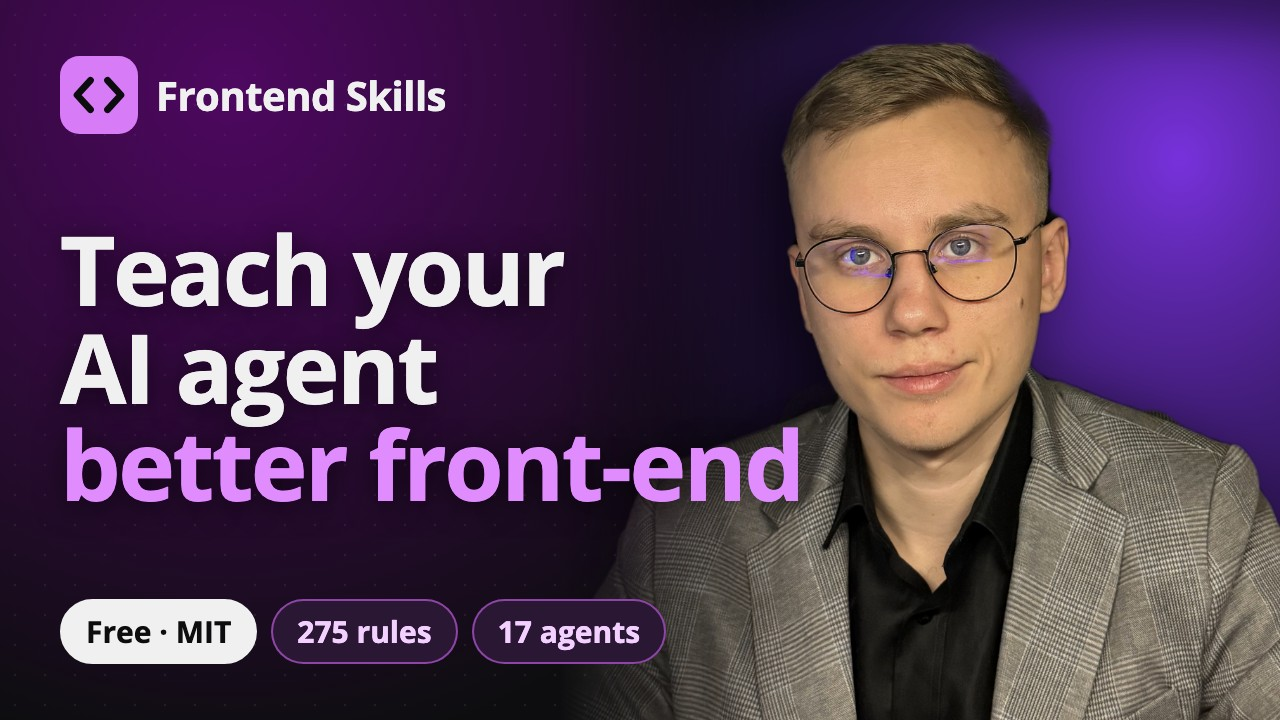
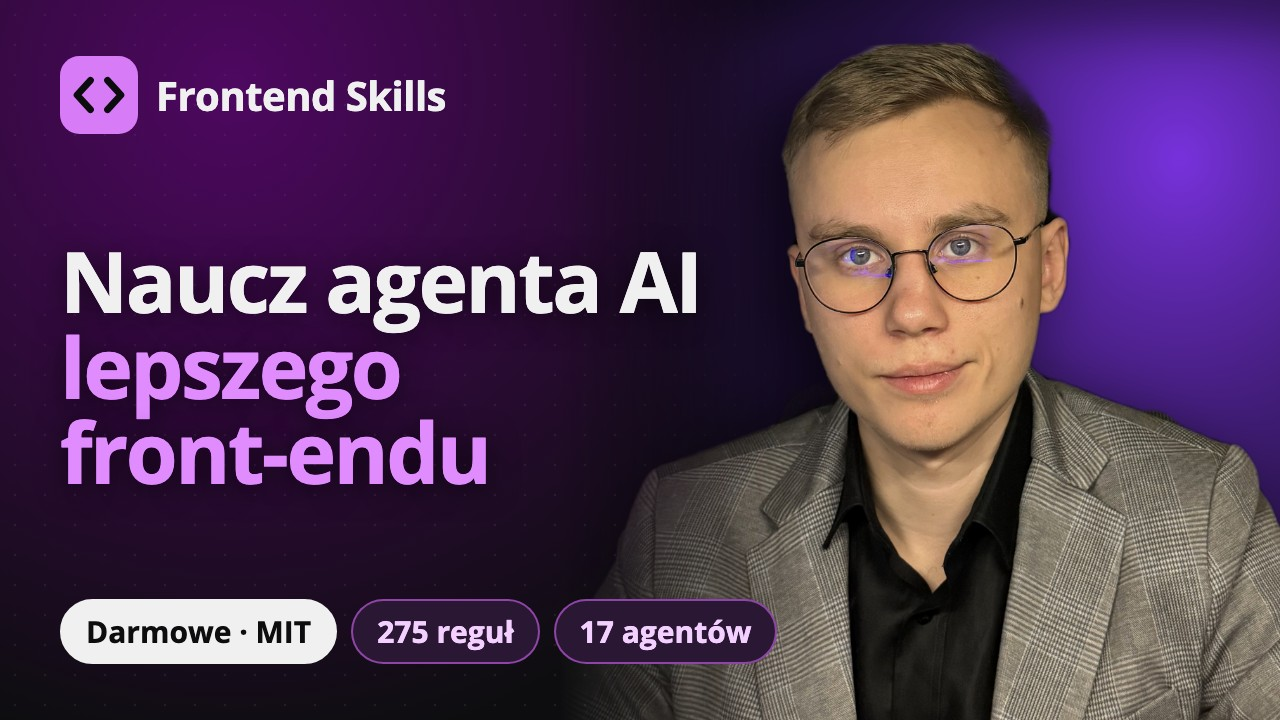
docs(media): Polish thumbnails as the main ones, English kept as -en [skip ci]

Changed region(s): [[0.0312, 0.3056, 0.625, 0.7028], [0.0625, 0.825, 0.625, 0.9472]]

diff --git a/media/launch/thumbnail.html b/media/launch/thumbnail.html
@@ -1,6 +1,6 @@
 <!doctype html>
 <!--
-  The thumbnail of the Frontend Skills video and post. build.mjs opens it with ?w=&h=&photo=&rules=&skills=&agents=
+  The thumbnail of the Frontend Skills video and post. build.mjs opens it with ?w=&h=&lang=en|pl&photo=&rules=&agents=
   and screenshots it: the author's portrait on the right, the mark, a short headline and the counts on the left.
 -->
 <html lang="en">
@@ -11,7 +11,14 @@
       @font-face {
         font-family: "Open Sans";
         font-weight: 300 700;
+        src: url(../../site/assets/fonts/opensans-latin-ext.woff2) format("woff2");
+        unicode-range: U+0100-02BA, U+02BD-02C5, U+02C7-02CC, U+02CE-02D7, U+02DD-02FF, U+1E00-1E9F, U+20A0-20C4, U+2C60-2C7F, U+A720-A7FF;
+      }
+      @font-face {
+        font-family: "Open Sans";
+        font-weight: 300 700;
         src: url(../../site/assets/fonts/opensans-latin.woff2) format("woff2");
+        unicode-range: U+0000-00FF, U+0131, U+0152-0153, U+02BB-02BC, U+02C6, U+02DA, U+02DC, U+2000-206F, U+20AC, U+2122, U+2212;
       }
       * {
         box-sizing: border-box;
@@ -118,9 +125,9 @@
           <svg viewBox="0 0 32 32" aria-hidden="true"><rect width="32" height="32" rx="8"/><path d="M12.5 10 7 16l5.5 6M19.5 10 25 16l-5.5 6"/></svg>
           Frontend Skills
         </div>
-        <h1>Teach your<br>AI agent <span>better front-end</span></h1>
+        <h1></h1>
         <div class="chips">
-          <span class="chip free">Free · MIT</span>
+          <span class="chip free" id="free"></span>
           <span class="chip" id="rules"></span>
           <span class="chip" id="agents"></span>
         </div>
@@ -132,8 +139,18 @@
       t.style.setProperty('--w', q.get('w'))
       t.style.setProperty('--h', q.get('h'))
       document.querySelector('.photo').style.backgroundImage = `url("${q.get('photo')}")`
-      document.getElementById('rules').textContent = `${q.get('rules')} rules`
-      document.getElementById('agents').textContent = `${q.get('agents')} agents`
+      const TEXT = {
+        en: { title: 'Teach your<br>AI agent <span>better front‑end</span>', free: 'Free · MIT', rules: 'rules', agents: 'agents' },
+        pl: { title: 'Naucz agenta AI <span>lepszego<br>front‑endu</span>', free: 'Darmowe · MIT', rules: 'reguł', agents: 'agentów' }
+      }
+      const lang = q.get('lang') === 'en' ? 'en' : 'pl'
+      const x = TEXT[lang]
+      document.documentElement.lang = lang
+      document.querySelector('h1').innerHTML = x.title
+      if (lang === 'pl') document.querySelector('h1').style.fontSize = 'calc(84 * var(--u))'
+      document.getElementById('free').textContent = x.free
+      document.getElementById('rules').textContent = `${q.get('rules')} ${x.rules}`
+      document.getElementById('agents').textContent = `${q.get('agents')} ${x.agents}`
     </script>
   </body>
 </html>

diff --git a/media/launch/README.md b/media/launch/README.md
@@ -2,9 +2,9 @@
 
 | File | What it is |
 | --- | --- |
-| `thumbnail-youtube.png`, `.jpg` | Video thumbnail, 1280×720 |
-| `thumbnail-linkedin.png`, `.jpg` | Post image, 1200×627 |
-| `linkedin-post-en.txt`, `linkedin-post-pl.txt` | The announcement post in English and Polish |
+| `thumbnail-youtube.png`, `.jpg` | Video thumbnail, 1280×720, in Polish (`thumbnail-youtube-en.*` in English) |
+| `thumbnail-linkedin.png`, `.jpg` | Post image, 1200×627, in Polish (`thumbnail-linkedin-en.*` in English) |
+| `linkedin-post-pl.txt`, `linkedin-post-en.txt` | The announcement post in Polish (the main one) and English |
 | `thumbnail.html`, `build.mjs` | The thumbnail's source and the script that renders it |
 
 The thumbnails show the author's portrait, which is passed to the script and not stored here:
